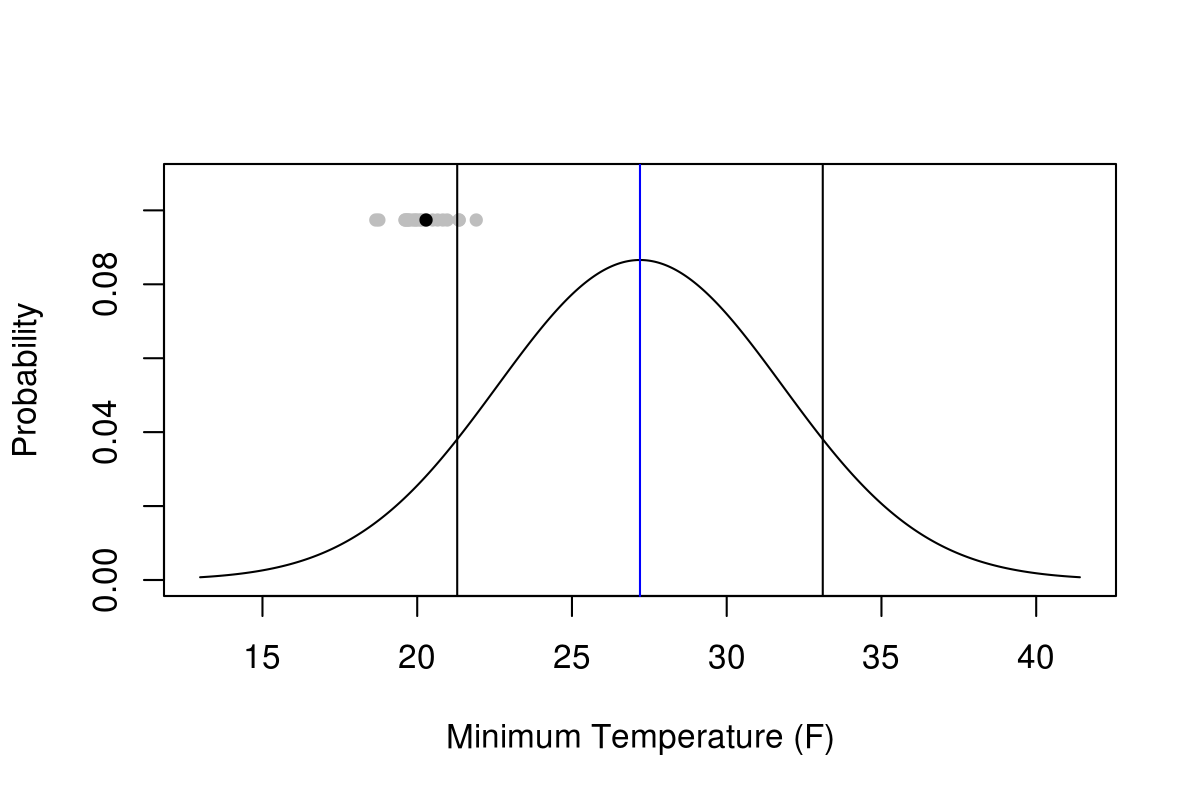
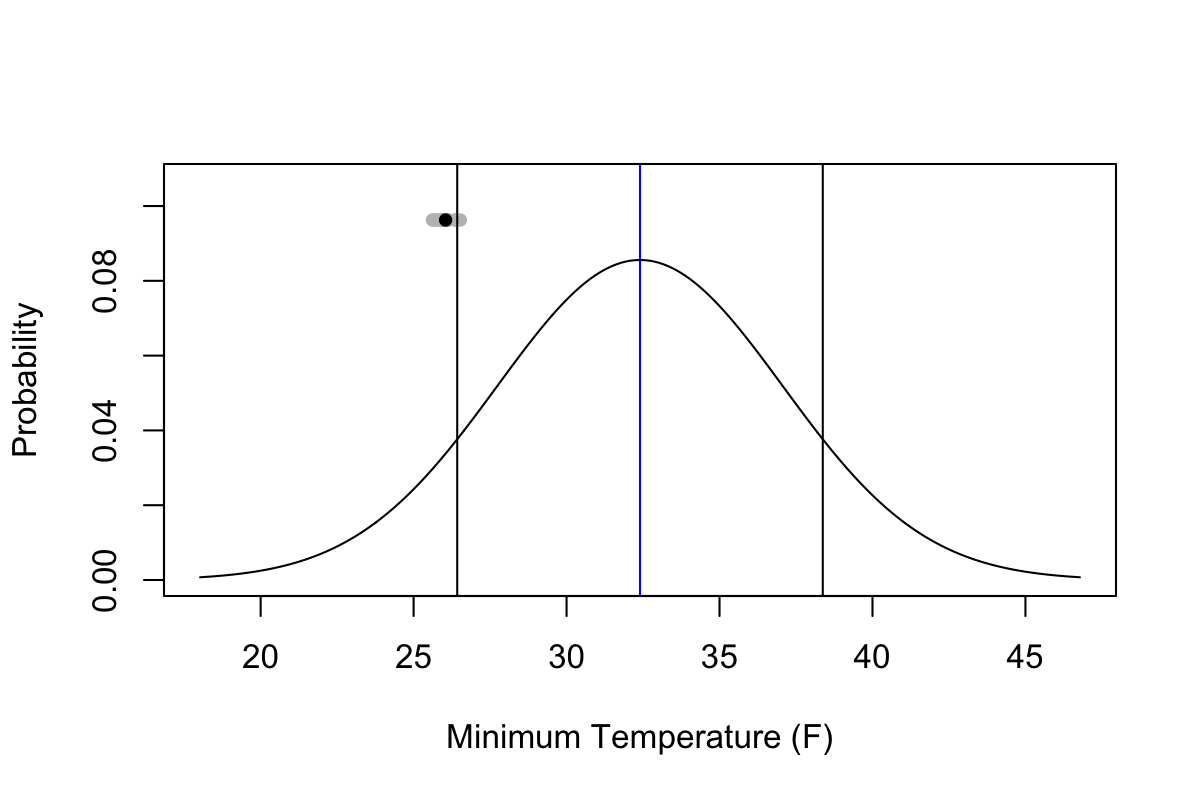
updated wxchallenge.md

diff --git a/wxchallenge.md b/wxchallenge.md
@@ -11,11 +11,11 @@ This page provides some tools I use to help me in the [WxChallenge](http://www.w
 * [SREF Plume Viewer](http://www.spc.noaa.gov/exper/sref/srefplumes/)
 * [WxChallenge WxData](http://www.wxchallenge.com/tools/weatherdata.php)
 
-## Calibrated PDFs for KRNO for Thursday, November 17
+## Calibrated PDFs for KRNO for Friday, November 18
 
 For information on Bayesian Model Averaging (BMA), scroll to the [bottom of this page](#bma). Click on each image to enlarge it.
 
-> Plots updated 2016-11-16 20:36 GMT
+> Plots updated 2016-11-17 17:51 GMT
 
 <p align="center"><strong>Maximum Temperature</strong></p>
 [<img src="tmax.png" width="700"/>](tmax.png)
